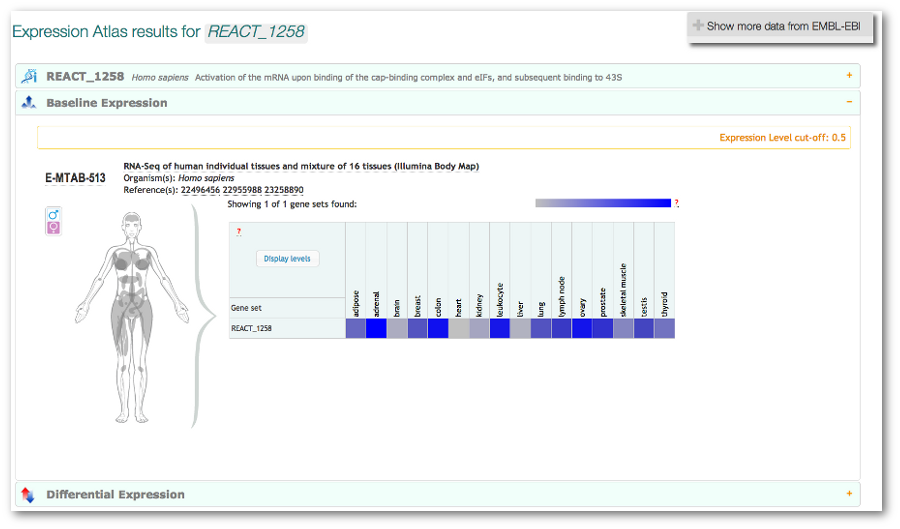
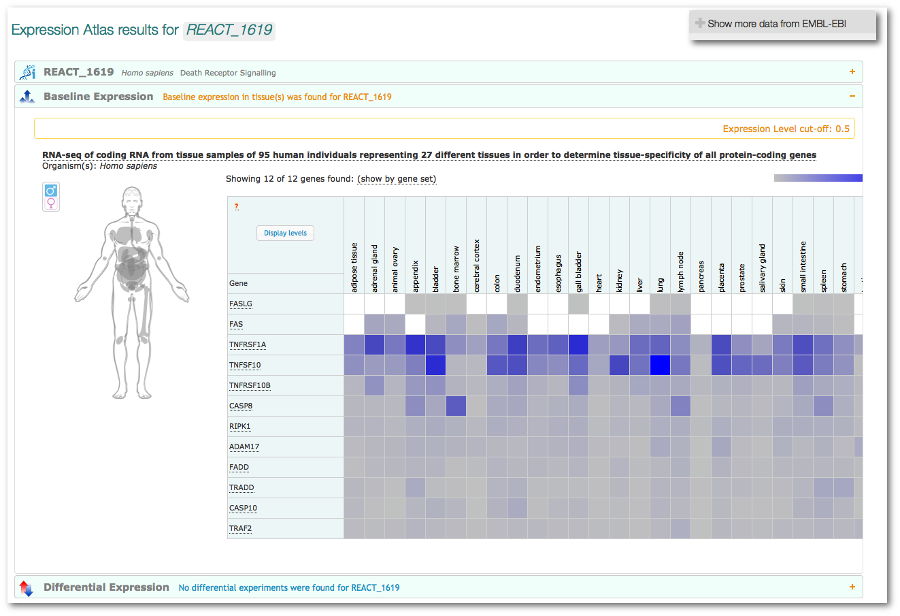
updated gene set help on help index

diff --git a/web/src/main/webapp/resources/html/help/index.html b/web/src/main/webapp/resources/html/help/index.html
@@ -45,8 +45,10 @@ are expressed in various biological conditions.</p>
 
 <h4>Gene set search results</h4>
 
-<p>See <a href="help/baseline-atlas.html">Baseline</a> expression for a gene set e.g. a <a href="">Reactome</a> pathway:</p>
-<p><img src="resources/images/help/reactomeResults1.png" alt="reactome baseline" /></p>
+<p>See <a href="help/baseline-atlas.html">Baseline</a> expression for a gene set e.g. a <a href="">Reactome</a> pathway, expanded for all genes in the pathway&hellip;</p>
+<p><img src="/Users/mkeays/Atlas/git/atlas/web/src/main/webapp/resources/images/help/reactomeResults1.png" alt="reactome gene set before" /></p>
+<p>&hellip;or collapsed for the pathway as a whole.</p>
+<p><img src="/Users/mkeays/Atlas/git/atlas/web/src/main/webapp/resources/images/help/reactomeResults2.png" alt="reactome gene set after" /></p>
 <p>Expand the section above for a link to the pathway in <a href="">Reactome</a>.</p>
 
 
